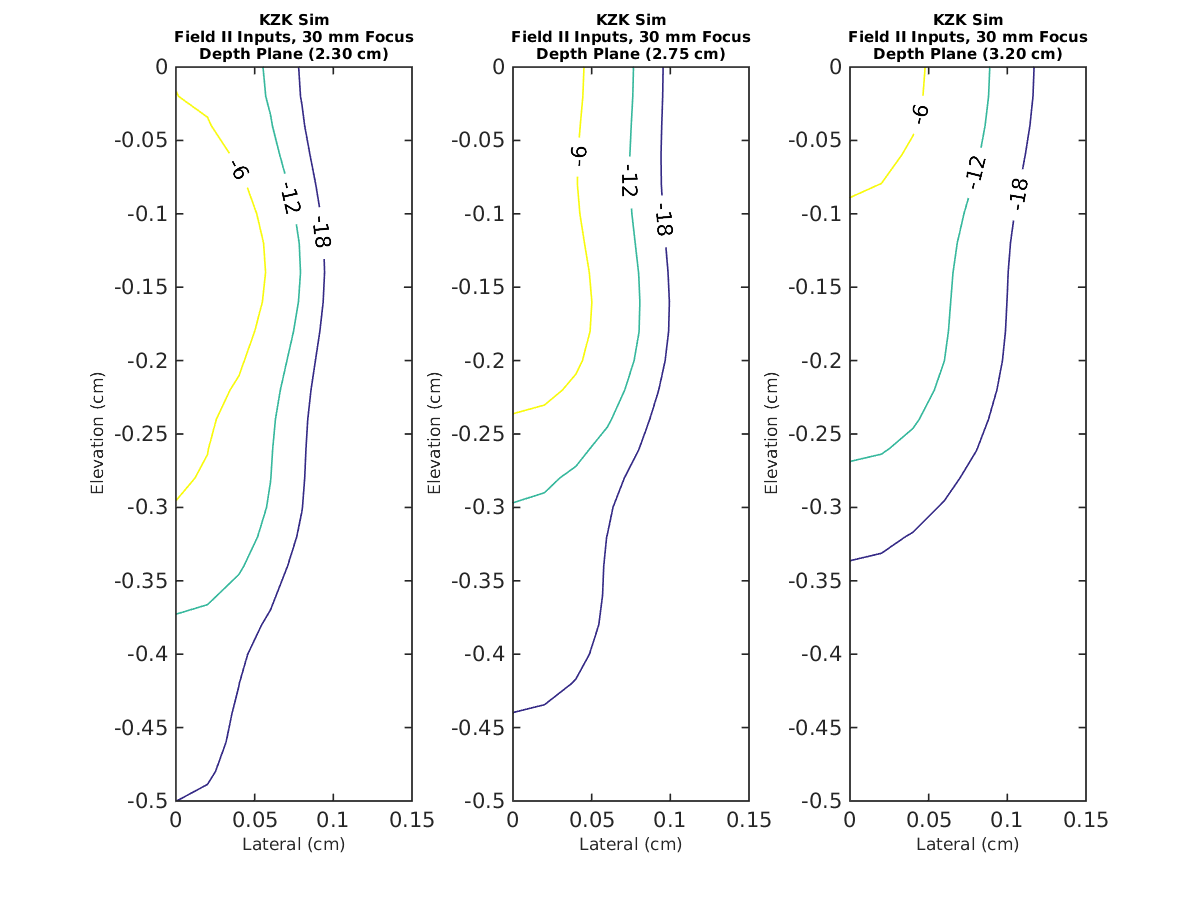
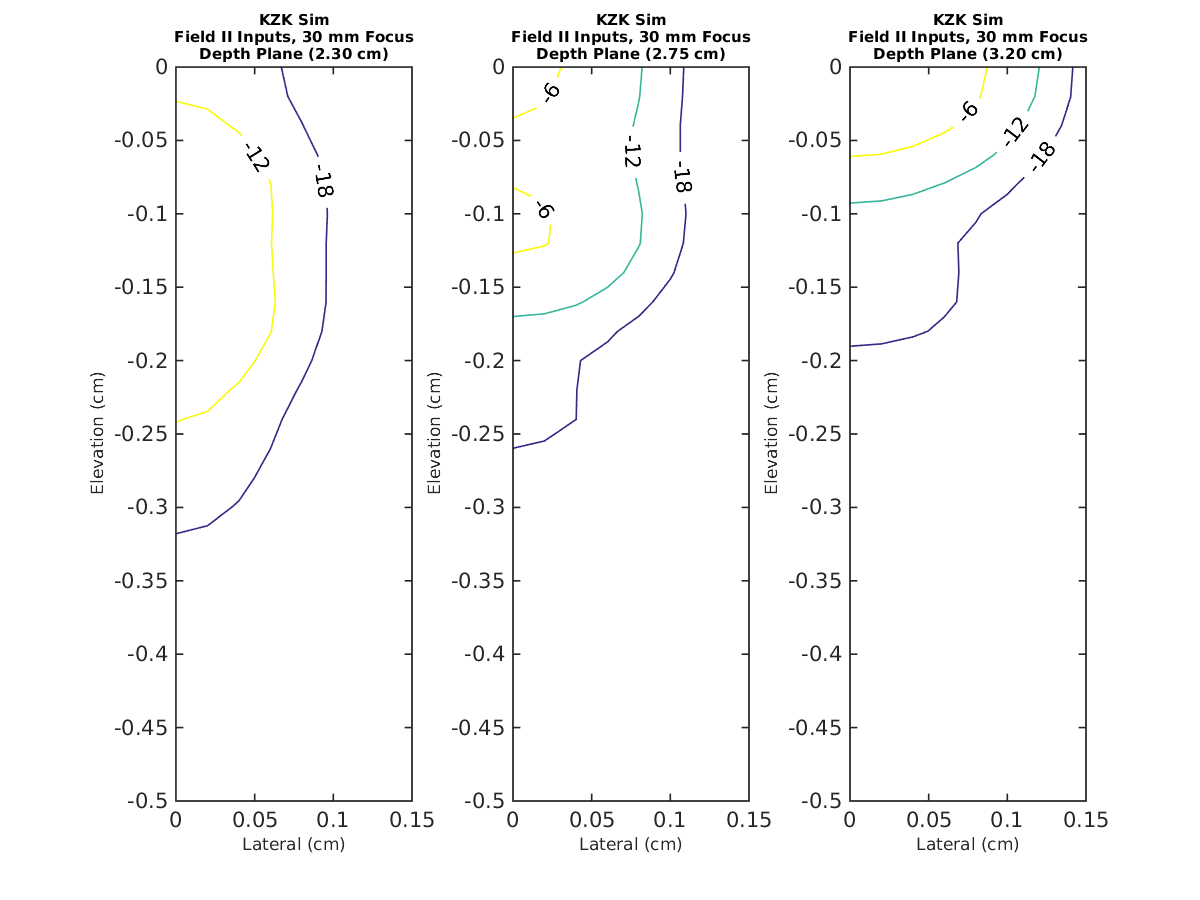
accidentally made plots of wrong data. re-made correct plots

diff --git a/comparisons/focus30mm/linear_compare.m b/comparisons/focus30mm/linear_compare.m
@@ -59,8 +59,8 @@ load(['/luscinia/nl91/nonlinear_acoustic/kzk/field_ii_c52_focus30mm/'...
 intensity = intensity(1:end-1, :, :);
           
 intensity_kzk_finput_30mm = permute(intensity, [3 2 1]);
-intensity_kzk_finput_30mm = intensity_kzk_30mm(1:length(kzk_ele), length(kzk_lat):end, :);
-intensity_kzk_finput_30mm = intensity_kzk_30mm ./ max(intensity_kzk_30mm(:));
+intensity_kzk_finput_30mm = intensity_kzk_finput_30mm(1:length(kzk_ele), length(kzk_lat):end, :);
+intensity_kzk_finput_30mm = intensity_kzk_finput_30mm ./ max(intensity_kzk_finput_30mm(:));
 intensity_kzk_finput_30mm_depth = kzk_depth;
 
 % Calculating location of max intensity
